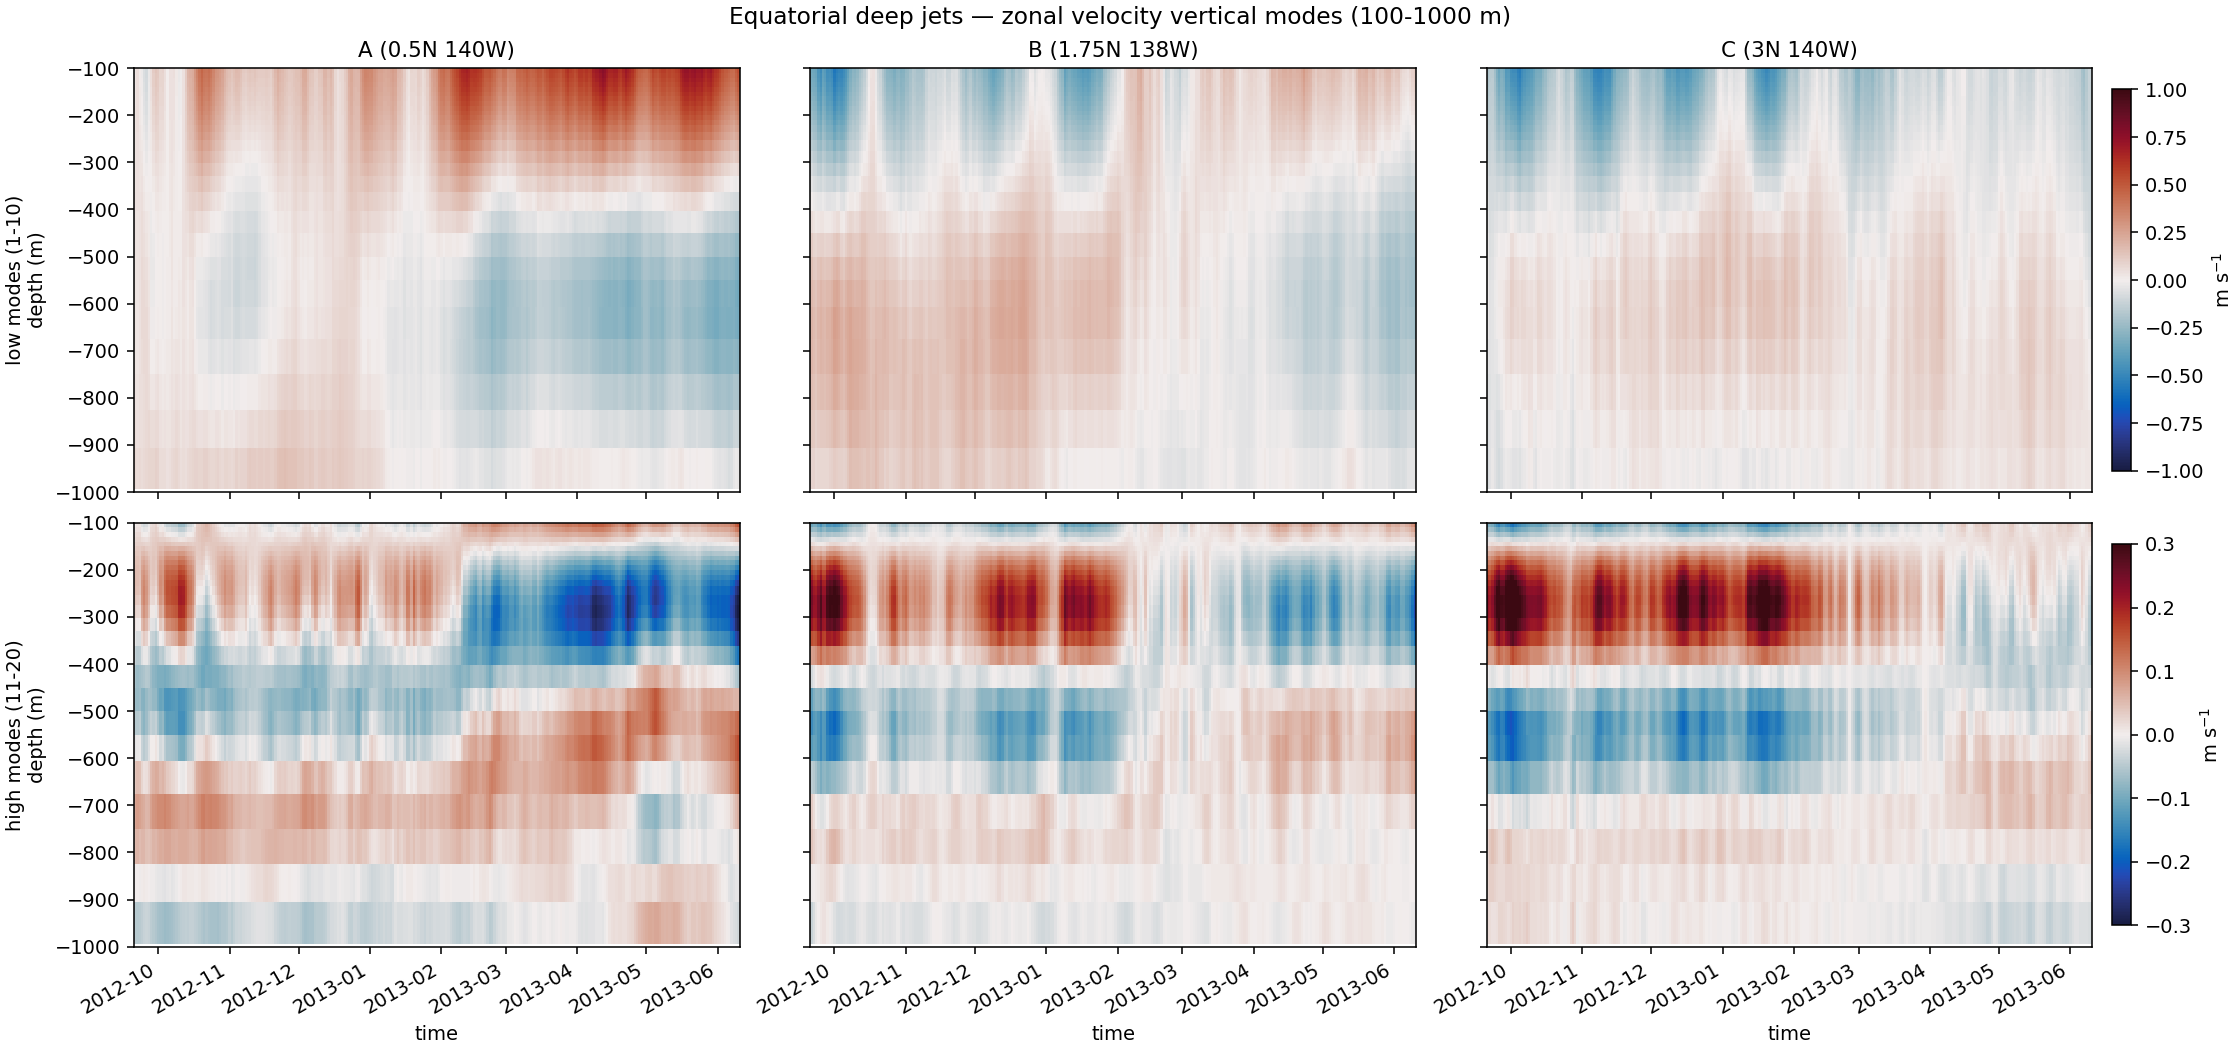
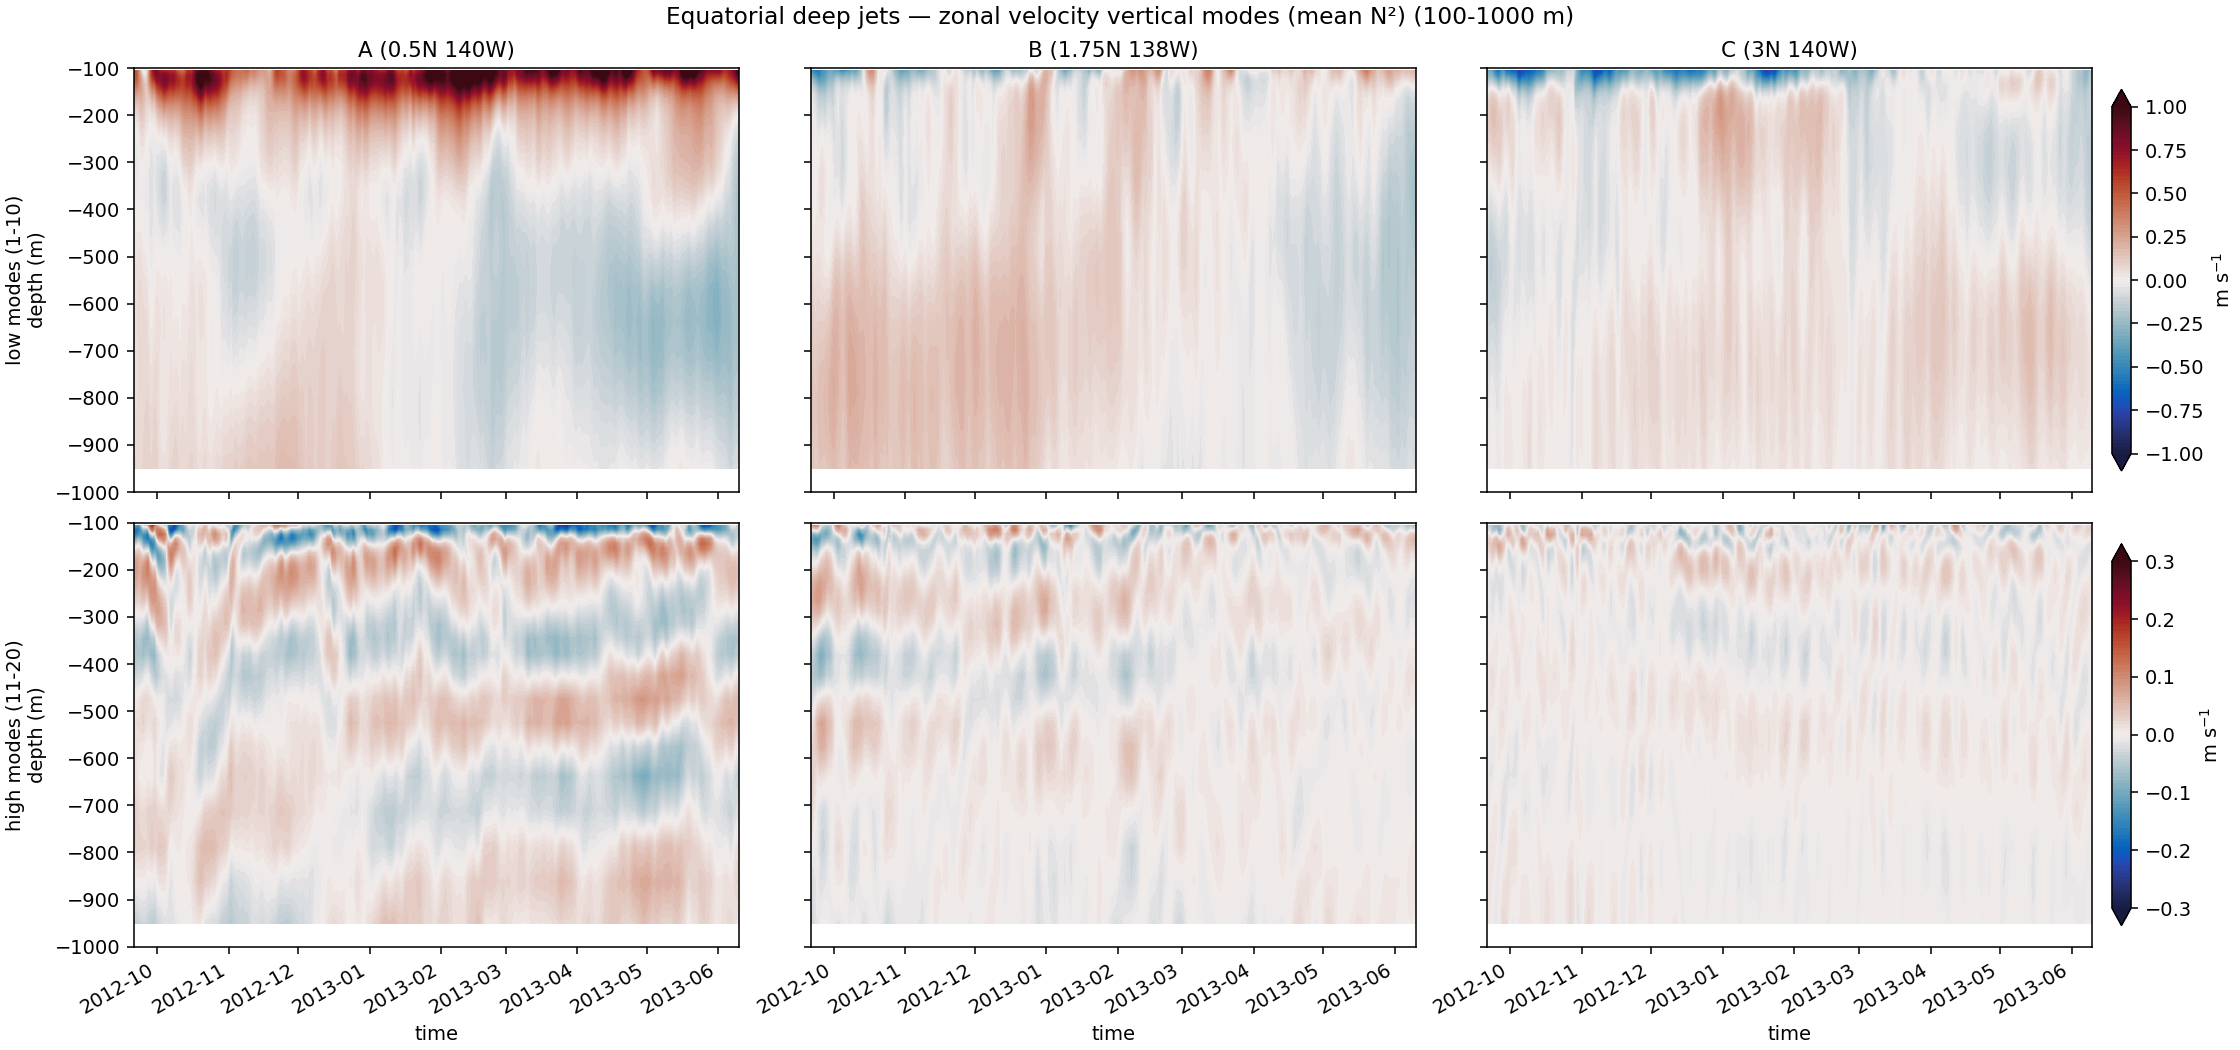
updating deep jet figures to use realistic stratification

diff --git a/scripts/plot_deep_jets.py b/scripts/plot_deep_jets.py
@@ -1,20 +1,24 @@
 """Deep-jet depth-time plots: zonal velocity split into low vs high vertical modes.
 
 For each of the three MOTIVE moorings (A 0.5N,140W; B 1.75N,138W; C 3N,140W) the
-total zonal velocity profile U(z,t) is decomposed into flat-bottom vertical normal
-modes cos(n*pi*z/H), n=0..20, fit over the full wet water column at each time (a
-cell-thickness-weighted least-squares Galerkin projection). The reconstruction is
-then split into "low" modes (n=1-10) and "high" modes (n=11-20); the barotropic
-n=0 (depth mean) is dropped from both. Equatorial deep jets are the stacked
-alternating-sign structure that lives in the high modes.
+total zonal velocity profile U(z,t) is decomposed into *dynamical* vertical normal
+modes -- the flat-bottom, rigid-lid baroclinic (pressure/horizontal-velocity) modes
+p_n(z) of the local buoyancy frequency N^2(z). The reconstruction is split into
+"low" modes (n=1-10) and "high" modes (n=11-20); the barotropic n=0 (depth mean)
+is dropped. Because the N^2-weighted modes stretch the thermocline, the EUC now
+projects onto the low modes (unlike flat cosines) and the deep jets onto the high.
 
-One figure per model: 2 rows x 3 columns (columns = moorings, top row = low modes,
-bottom row = high modes), y = depth (100-1000 m), x = time. Color scale is shared
-across the three moorings per row: +/-1 m/s (low), +/-0.3 m/s (high), cmo.balance.
+One figure per model (mooring_deep_jets_Umodes_*.png), modes from the TIME-MEAN
+N^2(z): 2 rows x 3 columns (columns = moorings, top = low modes, bottom = high),
+y = depth (100-1000 m), x = time. Color scale shared across the three moorings per
+row: +/-1 m/s (low), +/-0.3 m/s (high), cmo.balance, 100 filled-contour levels.
 
-ponytail: flat-bottom (constant-N^2) cosine modes, not true dynamical modes -- the
-mooring caches carry no THETA/SALT to build N^2(z). Fine for separating vertical
-scales; swap in Sturm-Liouville modes if a stratification profile is ever cached.
+Assumptions (flagged):
+  - N^2 from JMD95 in-situ density, parcels bracketed at the interface pressure to
+    remove compressibility; floored at 1e-7 s^-2 so modes stay real through the
+    mixed layer / weak inversions.
+  - Flat-bottom, rigid-lid modes over the full wet column to the true bottom H.
+Needs the stratification cache from build_strat_cache.py.
 """
 
 import os
@@ -22,17 +26,21 @@ import importlib
 import numpy as np
 import xarray as xr
 import cmocean
+import scipy.linalg
 import matplotlib
 matplotlib.use('Agg')
 import matplotlib.pyplot as plt
+import matplotlib.dates as mdates
 
 import plot_moorings as pm
+import eos_jmd95 as eos
 
-NMODES = 20                       # highest mode number in the fit
-LOW = slice(1, 11)                # modes 1-10
-HIGH = slice(11, 21)              # modes 11-20
+NMODES = 20                       # highest mode number kept
 ZMIN, ZMAX = 100.0, 1000.0        # plotted depth range (m, positive down)
+N_LEVELS = 100                    # filled-contour levels
+N2_FLOOR = 1e-7                   # s^-2, keeps the eigenproblem stably stratified
 CLIM = {'low': 1.0, 'high': 0.3}  # shared symmetric color limits (m/s)
+CTICK = {'low': 0.25, 'high': 0.1}   # colorbar tick step per band
 
 
 def _hfac_drf(cfg):
@@ -44,93 +52,101 @@ def _hfac_drf(cfg):
     return hfac, drF
 
 
-def mode_split(U, Z, drF, hfac):
-    """Low- and high-mode reconstructions of U(time, depth) for one mooring.
+def _load_strat(cfg, times):
+    """Window-aligned THETA, SALT (time, loc, depth) at the mooring columns."""
+    io = importlib.import_module(cfg['io'])
+    f = os.path.join(io.CACHE_DIR, cfg['cache'].replace('mooring', 'strat'))
+    if not os.path.exists(f):
+        return None
+    ds = xr.open_dataset(f).sel(time=times)
+    th, sa = ds['THETA'].values, ds['SALT'].values
+    ds.close()
+    return th, sa
 
-    U(z) is interpolated onto a uniform 5-m grid (where the cos(n*pi*z/H) modes
-    are orthogonal, so the projection is well conditioned -- a direct least-squares
-    fit on the native stretched grid blows up for n up to 20), projected onto
-    modes n=0..NMODES, then the modes 1-10 (low) and 11-20 (high) reconstructions
-    are mapped back onto the native depths. Returns (U_low, U_high) each
-    (time, depth) with below-bottom cells NaN; the barotropic n=0 is dropped.
+
+def n2_interfaces(theta, salt, zc):
+    """Buoyancy frequency N^2 at the interfaces between wet cell centers.
+
+    theta, salt: (nwet,) at centers; zc: center depth (m, positive down). Parcels
+    are compared at the common interface pressure (adiabatic N^2), floored positive.
     """
-    wet = hfac > 0
-    zc = -Z[wet]                                  # cell-center depth, positive down
-    H = float((drF * hfac)[wet].sum())             # water-column depth
-    zu = np.linspace(0.0, H, max(200, int(H / 5)))
-    Uw = U[:, wet]
+    di = 0.5 * (zc[:-1] + zc[1:])                      # interface depth (m)
+    p = eos.RHONIL * eos.GRAV * di / 1.0e4             # dbar
+    ru = eos.densjmd95(salt[:-1], theta[:-1], p)       # upper parcel at p
+    rl = eos.densjmd95(salt[1:], theta[1:], p)         # lower parcel at p
+    n2 = (eos.GRAV / eos.RHONIL) * (rl - ru) / (zc[1:] - zc[:-1])
+    return np.maximum(n2, N2_FLOOR)
 
-    Uu = np.array([np.interp(zu, zc, Uw[t]) for t in range(U.shape[0])])  # (time, nz)
-    n = np.arange(NMODES + 1)
-    Phi = np.cos(np.pi * np.outer(zu, n) / H)      # (nz, NMODES+1)
-    w = np.full(zu.size, zu[1] - zu[0]); w[0] = w[-1] = w[0] / 2   # trapezoid weights
-    cn = np.where(n == 0, 1.0, 2.0) / H
-    a = cn[None, :] * ((Uu * w) @ Phi)             # mode coeffs (time, NMODES+1)
 
+def pmodes(n2i, zc, dz):
+    """Flat-bottom baroclinic pressure modes from N^2 at interfaces.
+
+    Solves d/dz((1/N^2) dp/dz) = -(1/c^2) p with Neumann BC (no normal flow at
+    surface/bottom) as the symmetric generalized eigenproblem K p = (1/c^2) M p,
+    M = diag(cell thickness). Returns V (nwet, NMODES+1), M-orthonormal, ordered
+    by phase speed (mode 0 = barotropic), and M for the projection.
+    """
+    nz = len(zc)
+    a = 1.0 / (n2i * (zc[1:] - zc[:-1]))               # interface coupling (nz-1,)
+    K = np.zeros((nz, nz))
+    i = np.arange(nz - 1)
+    K[i, i] += a; K[i + 1, i + 1] += a
+    K[i, i + 1] -= a; K[i + 1, i] -= a
+    Mm = np.diag(dz)
+    _, V = scipy.linalg.eigh(K, Mm)                    # ascending 1/c^2  ->  V^T M V = I
+    return V[:, :NMODES + 1], Mm
+
+
+def _recon(U, V, Mm):
+    """Low- (modes 1-10) and high-mode (11-20) reconstructions of U (time, nwet)."""
+    a = V.T @ (Mm @ U.T)                               # coeffs (NMODES+1, time); V^T M V = I
+    return (V[:, 1:11] @ a[1:11]).T, (V[:, 11:21] @ a[11:21]).T
+
+
+def _place(low_w, high_w, shape, wet):
     out = []
-    for sl in (LOW, HIGH):
-        recu = a[:, sl] @ Phi[:, sl].T             # reconstruct on uniform grid
-        rec = np.full(U.shape, np.nan)
-        rec[:, wet] = np.array([np.interp(zc, zu, recu[t])
-                                for t in range(U.shape[0])])
+    for rw in (low_w, high_w):
+        rec = np.full(shape, np.nan)
+        rec[:, wet] = rw
         out.append(rec)
     return out
 
 
-def eof_split(U, Z, drF, hfac):
-    """Statistical-mode (EOF/PCA) analog of mode_split.
-
-    U(time, depth) over the wet column is decomposed by SVD into empirical
-    orthogonal functions, ranked by variance (cells weighted by sqrt of thickness
-    so coarse deep cells don't dominate the variance inner product). The field is
-    NOT time-centered, so EOF 1 carries the mean + dominant pattern -- keeping the
-    quasi-steady deep-jet structure, parallel to the dynamical-mode figure.
-    Low = EOFs 1-10, high = EOFs 11-20. Returns (U_low, U_high) each (time, depth),
-    below-bottom cells NaN.
-    """
+def split_mean(U, theta, salt, Z, drF, hfac):
+    """Low/high reconstructions using modes from the TIME-MEAN N^2 profile."""
     wet = hfac > 0
-    sw = np.sqrt((drF * hfac)[wet])                # sqrt cell thickness
-    Uc, S, Vt = np.linalg.svd(U[:, wet] * sw[None, :], full_matrices=False)
-
-    out = []
-    for a, b in ((0, 10), (10, 20)):
-        recw = (Uc[:, a:b] * S[a:b]) @ Vt[a:b]     # reconstruct weighted field
-        rec = np.full(U.shape, np.nan)
-        rec[:, wet] = recw / sw[None, :]
-        out.append(rec)
-    return out
+    zc, dz = -Z[wet], (drF * hfac)[wet]
+    n2 = n2_interfaces(np.nanmean(theta[:, wet], 0), np.nanmean(salt[:, wet], 0), zc)
+    V, Mm = pmodes(n2, zc, dz)
+    return _place(*_recon(U[:, wet], V, Mm), U.shape, wet)
 
 
-# decomposition variants: tag -> (splitter, basis label for the title)
-VARIANTS = {
-    'Umodes': (mode_split, 'vertical modes'),
-    'Ueof':   (eof_split,  'statistical modes (EOF)'),
-}
-
-
-def make_fig(M, cfg, split_fn, tag, basis_label):
+def make_fig(M, cfg, strat, splitter, tag, basis_label):
     hfac, drF = _hfac_drf(cfg)
-    Z, t, names = M['Z'], M['time'], M['names']
+    Z, names = M['Z'], M['names']
+    th, sa = strat
+    xt = mdates.date2num(M['time'])                    # contourf needs numeric x
     zmask = (-Z >= ZMIN) & (-Z <= ZMAX)
     zz = Z[zmask]
 
-    # (band, mooring) -> (time, depth) reconstruction
-    rec = {}
+    rec = {}                                           # (band, mooring) -> (time, depth)
     for p in range(len(names)):
         Utot = M['mean']['U'][p][None, :] + M['treat']['unfiltered']['u'][:, p, :]
-        low, high = split_fn(Utot, Z, drF, hfac[p])
+        low, high = splitter(Utot, th[:, p, :], sa[:, p, :], Z, drF, hfac[p])
         rec['low', p], rec['high', p] = low, high
 
     fig, axes = plt.subplots(2, 3, figsize=(16, 7.5), sharex=True, sharey=True,
                              layout='constrained')
-    rows = [('low', '1-10'), ('high', '11-20')]
-    for ri, (band, modes) in enumerate(rows):
+    for ri, (band, modes) in enumerate([('low', '1-10'), ('high', '11-20')]):
         v = CLIM[band]
+        levels = np.linspace(-v, v, N_LEVELS + 1)
         for p in range(len(names)):
-            pc = axes[ri, p].pcolormesh(t, zz, rec[band, p][:, zmask].T,
-                                        cmap=cmocean.cm.balance, vmin=-v, vmax=v,
-                                        shading='nearest')
-        cb = fig.colorbar(pc, ax=list(axes[ri]), pad=0.01, shrink=0.9)
+            cs = axes[ri, p].contourf(xt, zz, rec[band, p][:, zmask].T,
+                                      levels=levels, cmap=cmocean.cm.balance,
+                                      extend='both')
+            axes[ri, p].xaxis_date()
+        cb = fig.colorbar(cs, ax=list(axes[ri]), pad=0.01, shrink=0.9,
+                          ticks=np.arange(-v, v + CTICK[band] / 2, CTICK[band]))
         cb.set_label('m s$^{-1}$')
         axes[ri, 0].set_ylabel(f'{band} modes ({modes})\ndepth (m)', fontsize=10)
     for p in range(len(names)):
@@ -148,19 +164,47 @@ def make_fig(M, cfg, split_fn, tag, basis_label):
     return fname
 
 
+VARIANTS = [('Umodes', split_mean, 'vertical modes (mean N²)')]
+
+
 def main(models=None):
     for model in (models or list(pm.MODELS)):
         cfg = pm.MODELS[model]
-        path = (f"{importlib.import_module(cfg['io']).CACHE_DIR}/{cfg['cache']}")
+        path = f"{importlib.import_module(cfg['io']).CACHE_DIR}/{cfg['cache']}"
         if not os.path.exists(path):
-            print(f'SKIP {model}: cache not found ({cfg["cache"]})')
+            print(f'SKIP {model}: mooring cache not found ({cfg["cache"]})')
             continue
         os.makedirs(cfg['fig_dir'], exist_ok=True)
         M = pm.load_model(cfg)
-        for tag, (split_fn, basis_label) in VARIANTS.items():
-            print('wrote', make_fig(M, cfg, split_fn, tag, basis_label))
+        strat = _load_strat(cfg, M['time'])
+        if strat is None:
+            print(f'SKIP {model}: strat cache missing (run build_strat_cache.py)')
+            continue
+        for tag, splitter, label in VARIANTS:
+            print('wrote', make_fig(M, cfg, strat, splitter, tag, label))
+
+
+def _selfcheck():
+    """pmodes on constant N^2 must give c_n = N H/(n pi) and cosine structure."""
+    N, H, nz = 3e-3, 1000.0, 200
+    dz = np.full(nz, H / nz)
+    zc = np.cumsum(dz) - dz / 2
+    n2i = np.full(nz - 1, N ** 2)
+    V, Mm = pmodes(n2i, zc, dz)
+    a = 1.0 / (n2i * (zc[1:] - zc[:-1]))
+    K = np.zeros((nz, nz)); i = np.arange(nz - 1)
+    K[i, i] += a; K[i + 1, i + 1] += a; K[i, i + 1] -= a; K[i + 1, i] -= a
+    for n in range(1, 6):
+        p = V[:, n]
+        c = 1 / np.sqrt((p @ K @ p) / (p @ Mm @ p))
+        assert abs(c - N * H / (n * np.pi)) < 1e-3, (n, c)
+        assert abs(np.corrcoef(p, np.cos(n * np.pi * zc / H))[0, 1]) > 0.999
+    print('pmodes self-check OK')
 
 
 if __name__ == '__main__':
     import sys
-    main(sys.argv[1:] or None)
+    if sys.argv[1:2] == ['test']:
+        _selfcheck()
+    else:
+        main(sys.argv[1:] or None)

diff --git a/scripts/build_strat_cache.py b/scripts/build_strat_cache.py
@@ -1,0 +1,98 @@
+"""Cache THETA/SALT columns at the three mooring points, for dynamical vertical
+modes (N^2-based) in plot_deep_jets.py.
+
+Companion to the build_mooring_cache*.py scripts -- same three columns, same grid,
+but the two tracers instead of U/V/W. The full time series is stored (small), so
+both the time-mean N^2 modes and the time-evolving N^2 modes can be built from one
+cache. Below-seafloor cells are left as read (0 for mds runs, NaN for TPOSE6 Vel);
+plot_deep_jets masks via hFacC from the mooring cache.
+
+Run:  python build_strat_cache.py [tpose24|tpose6|tpose6_noVel_5year ...]
+(TPOSE6 / 5-year read whole fields off NFS -- run those detached.)
+
+Output: <CACHE_DIR>/yanai_strat_<tag>.nc  (tag mirrors the mooring cache name)
+"""
+
+import os
+import sys
+import time
+import importlib
+import numpy as np
+import xarray as xr
+from concurrent.futures import ThreadPoolExecutor
+
+import plot_moorings as pm
+
+FIELDS = ['THETA', 'SALT']
+MOORINGS = [('A_0.5N_140W', 0.5, 220.0),
+            ('B_1.75N_138W', 1.75, 222.0),
+            ('C_3N_140W', 3.0, 220.0)]
+
+
+def _read_tpose24(io, ii, jj):
+    iters = io.diag_iters()
+    times = io.iter_times(iters)
+    data = {f: np.full((len(iters), len(ii), io.NZ), np.nan, 'f4') for f in FIELDS}
+
+    def read_one(t):
+        return t, io.read_columns(int(iters[t]), FIELDS, ii, jj)
+    with ThreadPoolExecutor(max_workers=8) as ex:
+        for t, cols in ex.map(read_one, range(len(iters))):
+            for f in FIELDS:
+                data[f][t] = cols[f]
+    return times, data
+
+
+def _read_xarray(io, ii, jj, open_da):
+    """THETA/SALT columns via an xarray DataArray getter `open_da(var) -> da`."""
+    iy, ix = np.unique(jj), np.unique(ii)
+    py = np.array([int(np.where(iy == j)[0][0]) for j in jj])
+    px = np.array([int(np.where(ix == i)[0][0]) for i in ii])
+    times, data = None, {}
+    for var in FIELDS:
+        da = open_da(var, iy, ix)
+        ydim, xdim = io._hdim(da)
+        zdim = [d for d in da.dims if d not in ('time', ydim, xdim)][0]
+        da = da.transpose('time', zdim, ydim, xdim)
+        cols = np.asarray(da.values)[:, :, py, px]        # (time, nz, n_p)
+        data[var] = np.moveaxis(cols, -1, 1).astype('f4')  # (time, n_p, nz)
+        times = da['time'].values
+    return times, data
+
+
+def build(model):
+    cfg = pm.MODELS[model]
+    io = importlib.import_module(cfg['io'])
+    grid = io.load_grid()
+    lon, lat, Z = grid['lon'], grid['lat'], grid['Z']
+    names = [m[0] for m in MOORINGS]
+    ii = np.array([io.nearest_idx(lon, m[2]) for m in MOORINGS])
+    jj = np.array([io.nearest_idx(lat, m[1]) for m in MOORINGS])
+    print(model, 'moorings:', [f'{n}->{lon[i]:.2f}E,{lat[j]:.2f}N'
+                               for n, i, j in zip(names, ii, jj)], flush=True)
+
+    t0 = time.time()
+    if model == 'tpose24':
+        times, data = _read_tpose24(io, ii, jj)
+    elif model == 'tpose6':
+        times, data = _read_xarray(io, ii, jj,
+                                   lambda v, iy, ix: io.load_var(v, iy=iy, ix=ix))
+        _ds = None
+    else:  # tpose6_noVel_5year
+        ds = io.open_5year()
+        times, data = _read_xarray(io, ii, jj, lambda v, iy, ix: ds[v].isel(
+            {io._hdim(ds[v])[0]: iy, io._hdim(ds[v])[1]: ix}))
+    print(f'  read {FIELDS} in {time.time()-t0:.0f}s', flush=True)
+
+    out = xr.Dataset(
+        {f: (['time', 'loc', 'depth'], data[f]) for f in FIELDS},
+        coords={'time': times, 'loc': names, 'depth': Z},
+        attrs={'run': model, 'note': 'mean/time-evolving N^2 modes in plot_deep_jets'})
+    fname = os.path.join(io.CACHE_DIR, cfg['cache'].replace('mooring', 'strat'))
+    out.to_netcdf(fname)
+    print('saved', fname, f'({time.time()-t0:.0f}s)', flush=True)
+
+
+if __name__ == '__main__':
+    for m in (sys.argv[1:] or list(pm.MODELS)):
+        build(m)
